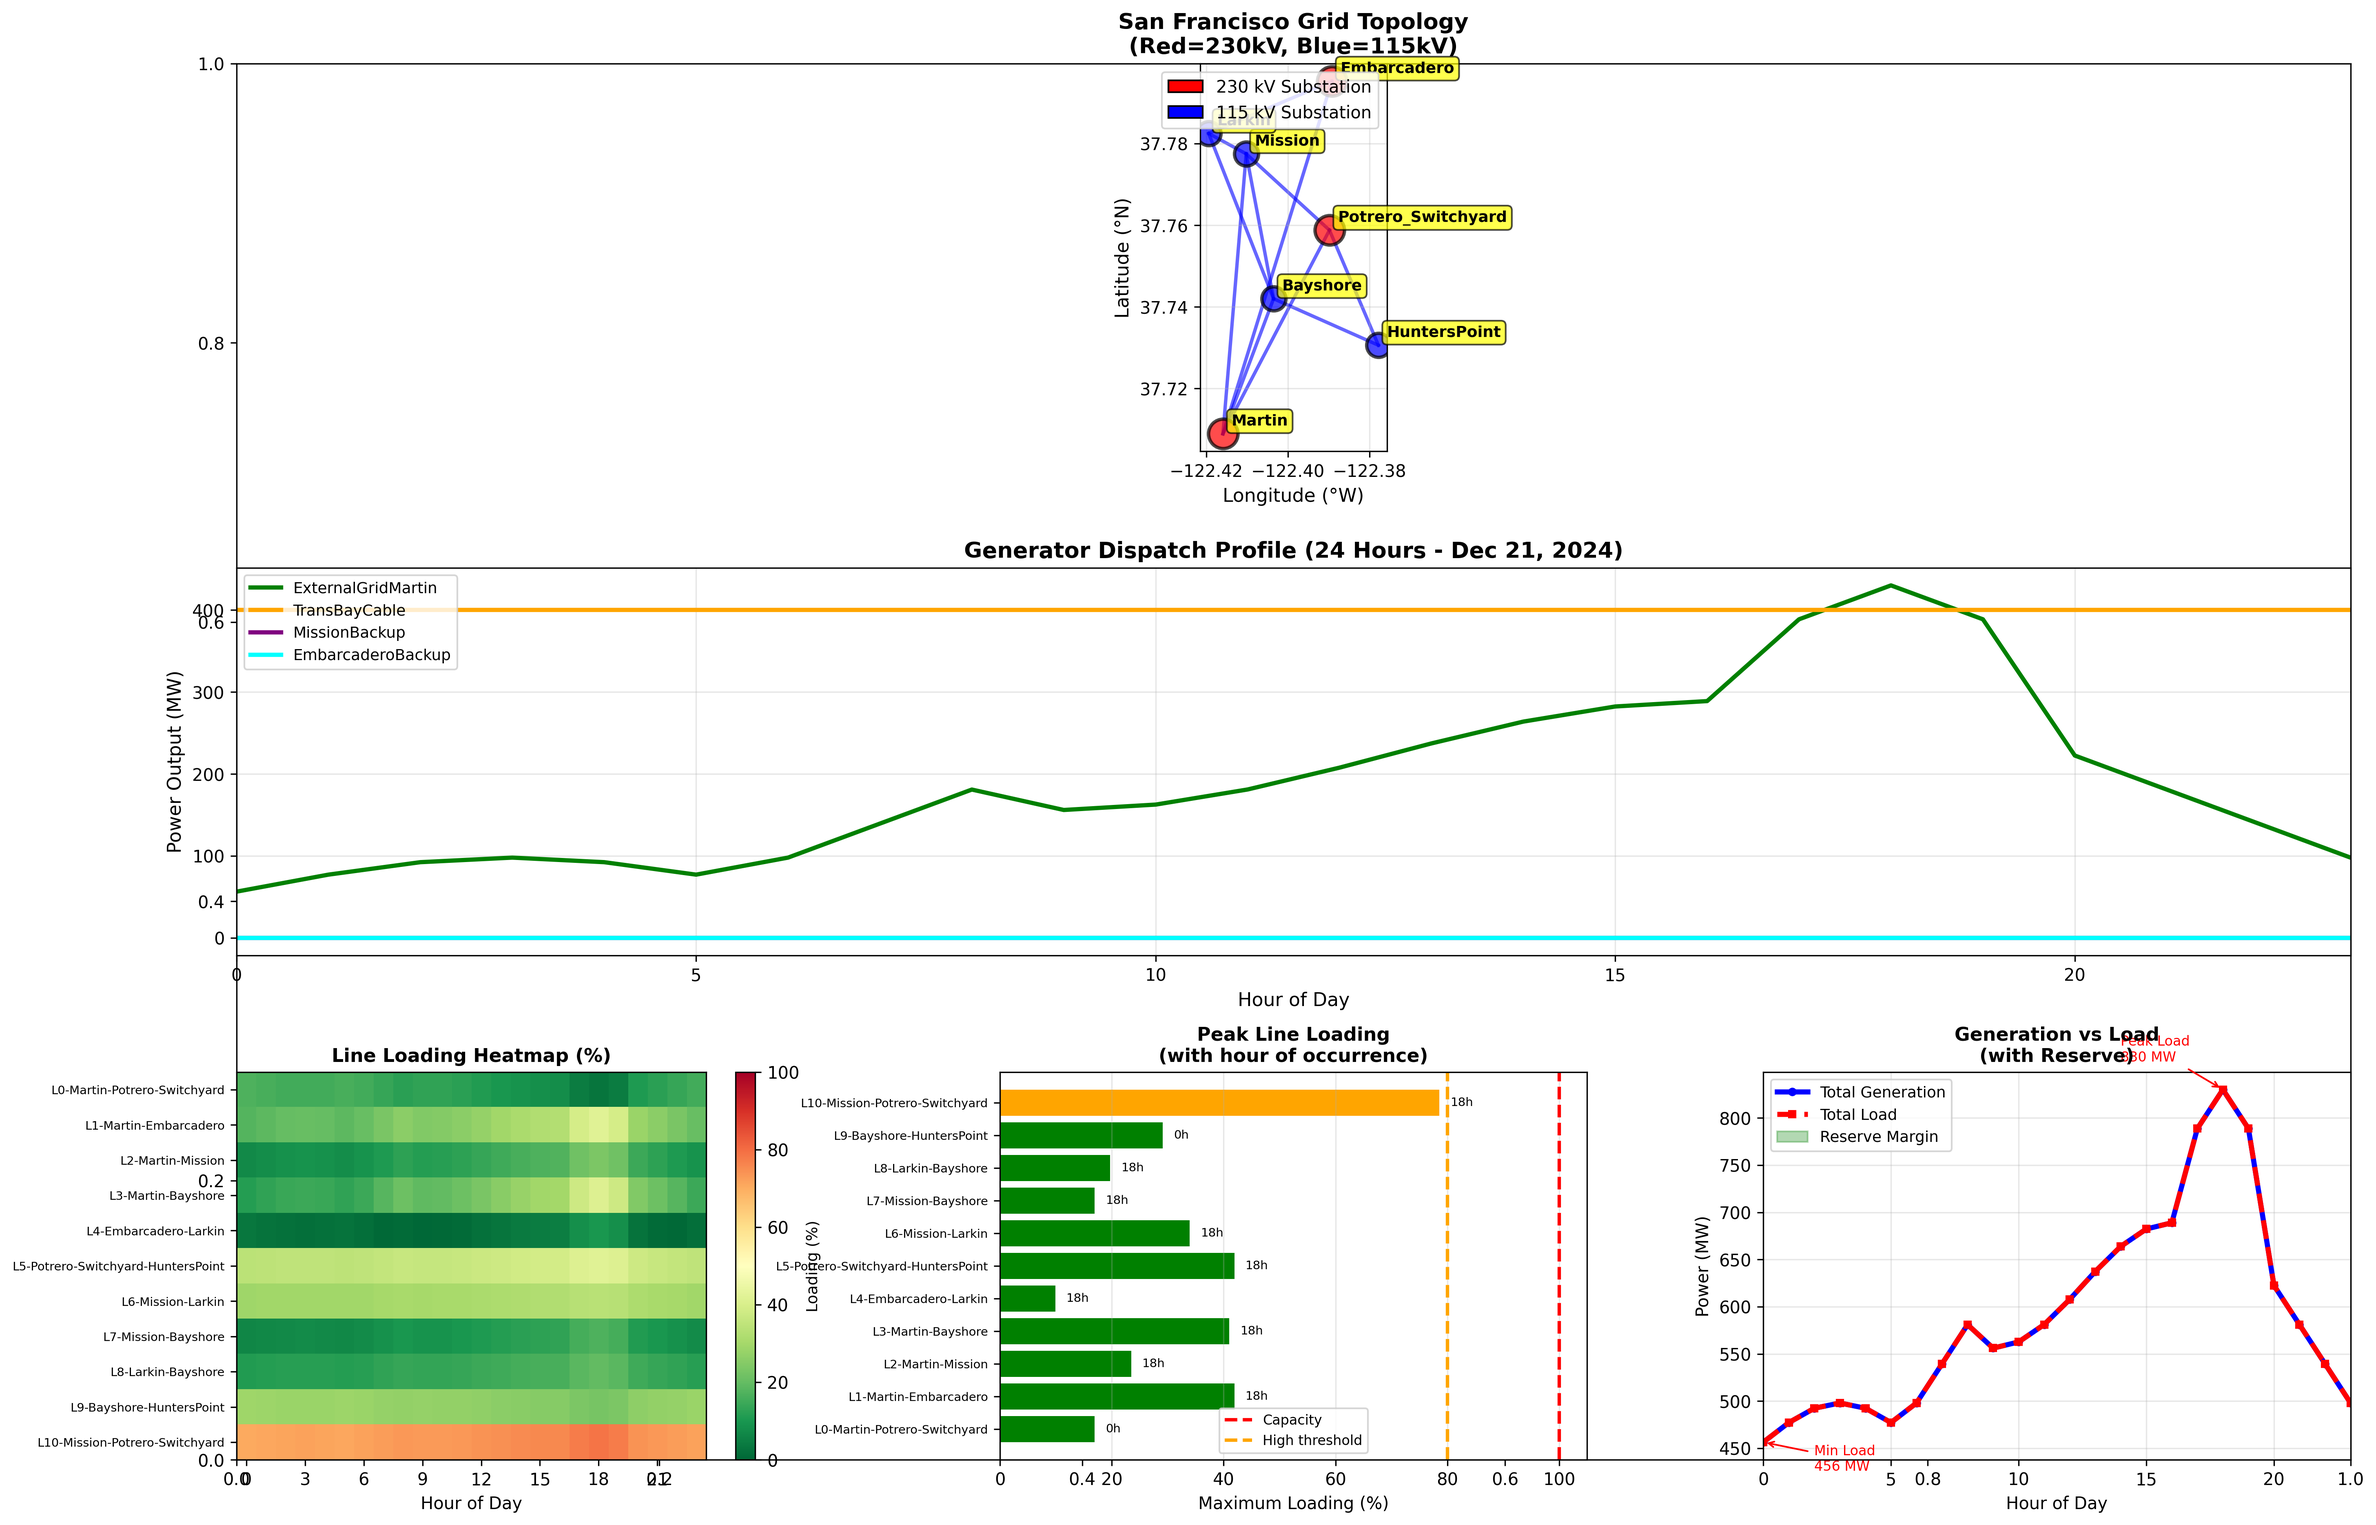
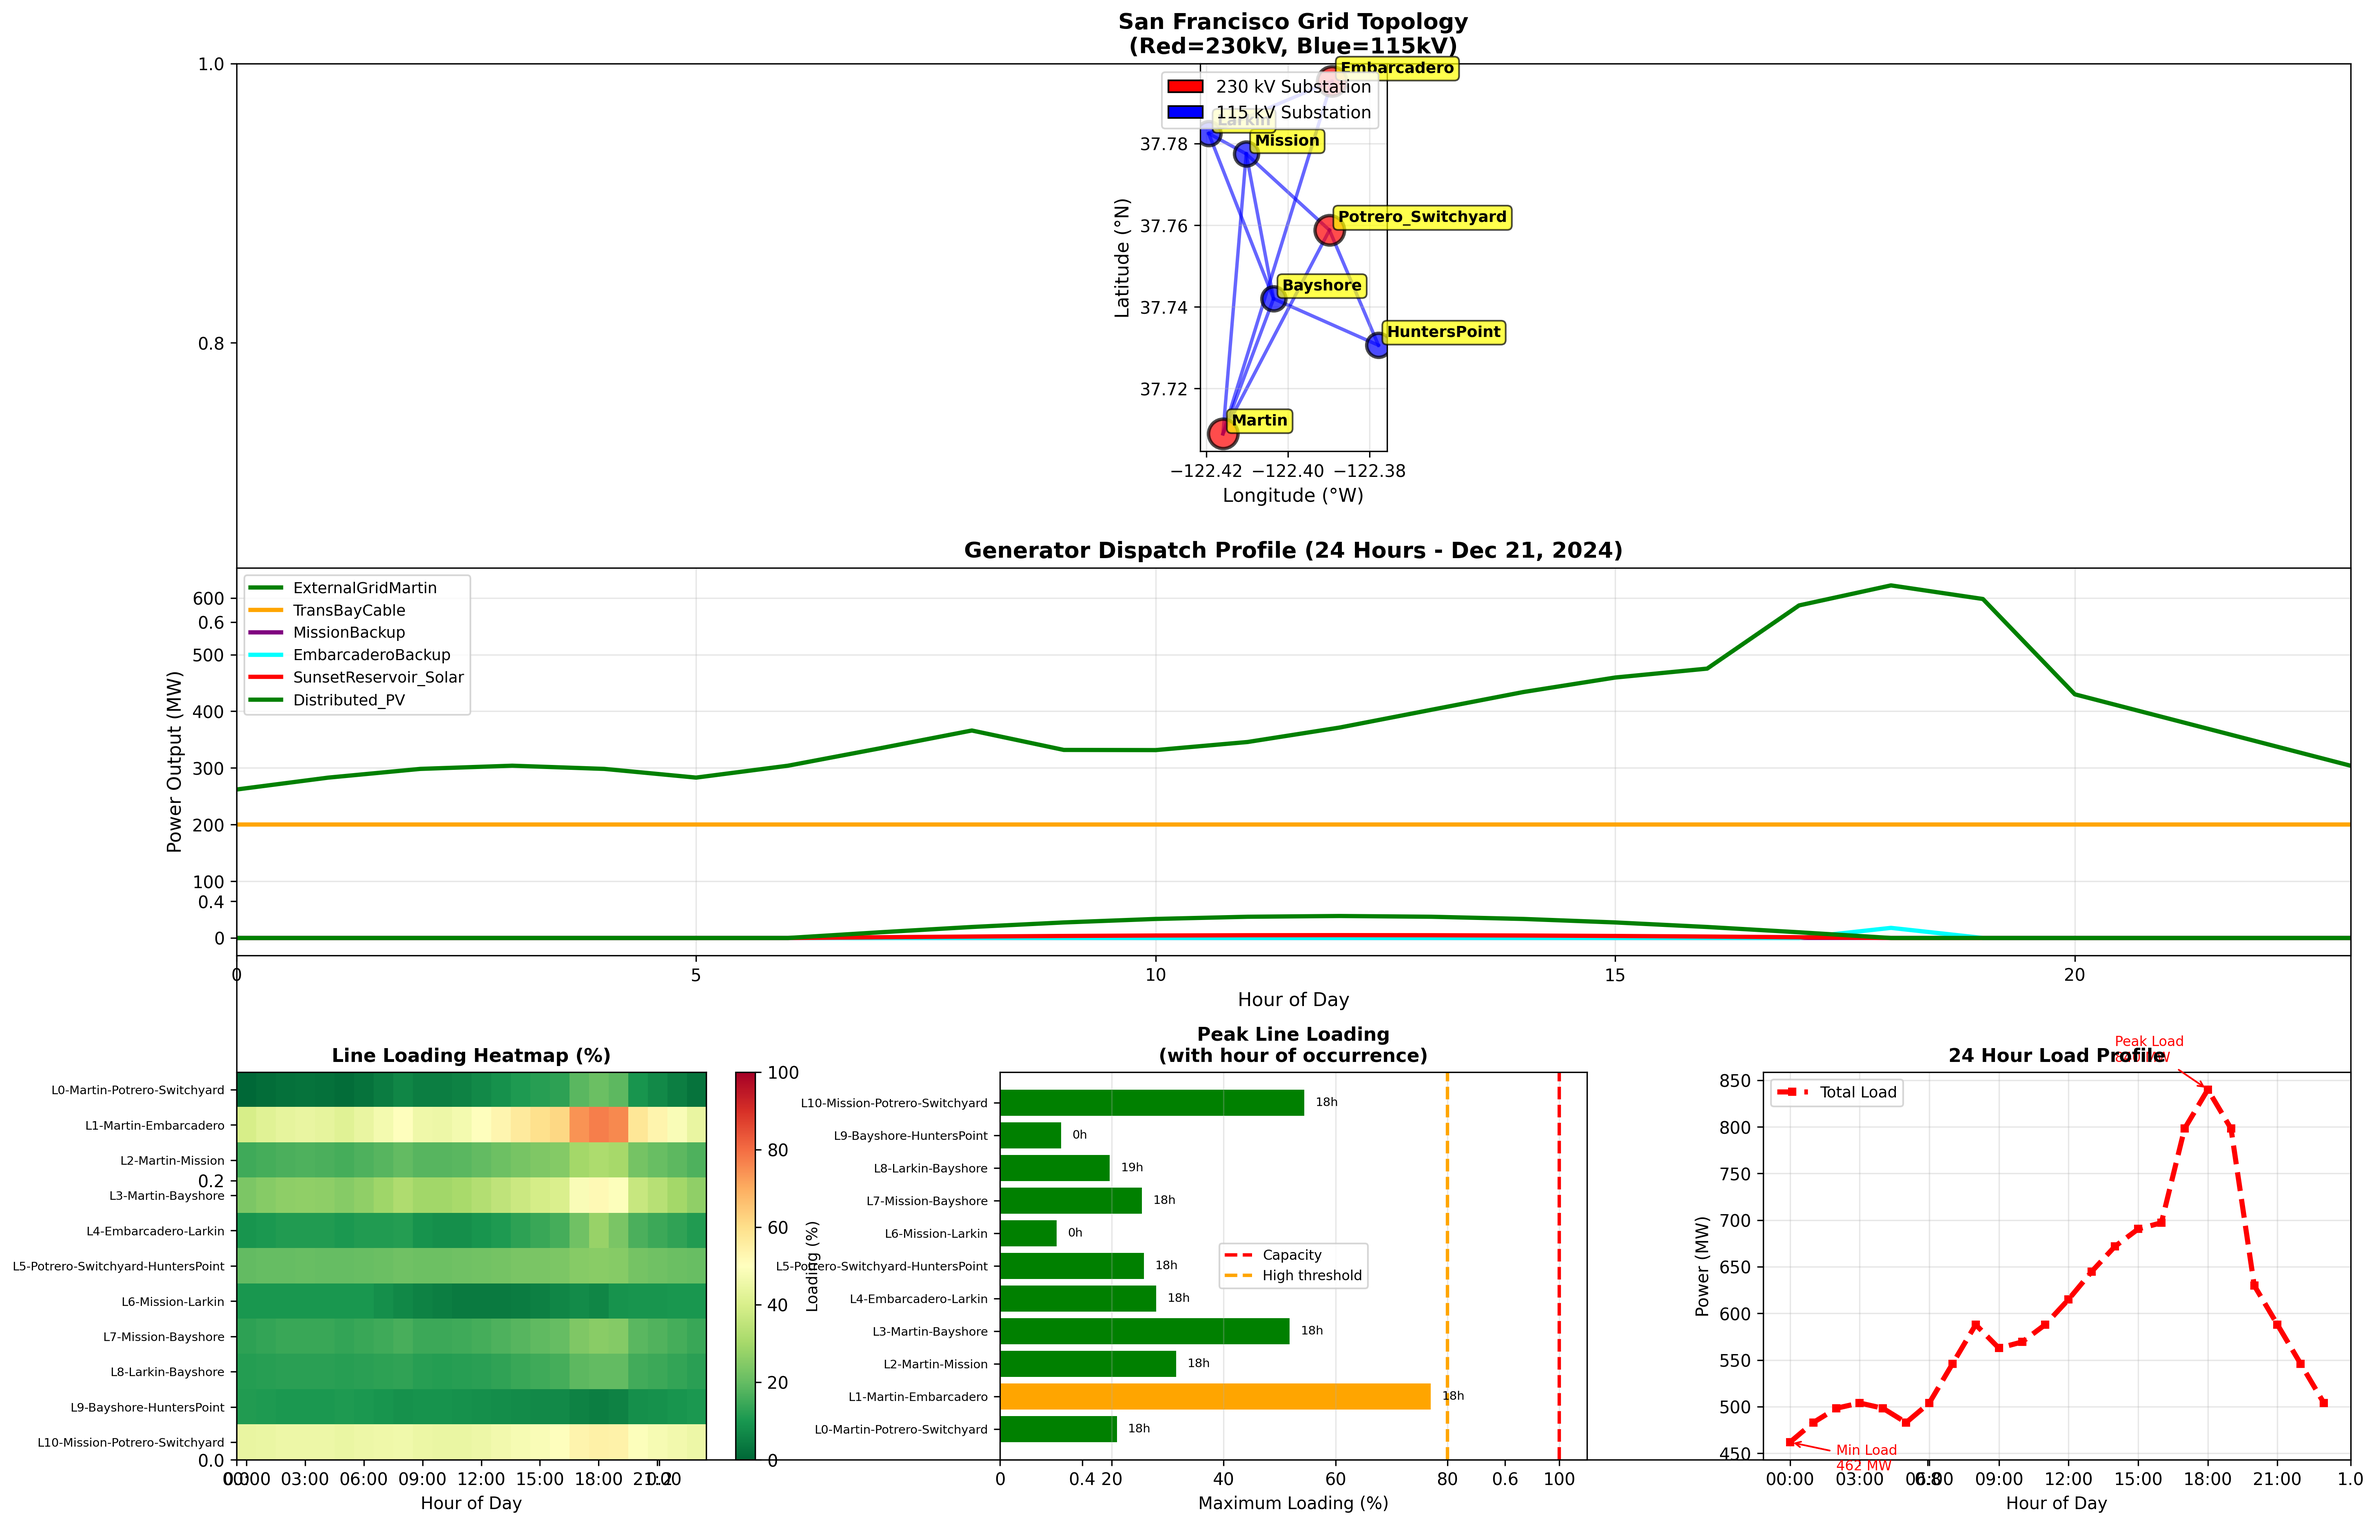
add a solar generator, increase constraints

diff --git a/sf_grid_model.py b/sf_grid_model.py
@@ -91,16 +91,14 @@ network.add("Generator", "ExternalGridMartin",
             p_nom=1500,
             marginal_cost=50,
             carrier="external")
-print("  • External Grid @ Martin: 1,500 MW (230kV entry point)")
 
 # Trans Bay Cable at Potrero Converter
 # Note: The 200kV DC converter connects to 230kV AC switchyard
 network.add("Generator", "TransBayCable",
             bus="Potrero_Switchyard",
-            p_nom=400,  # 400 MW underwater cable from Pittsburg
+            p_nom=200,  # 400 MW underwater cable from Pittsburg
             marginal_cost=40,
             carrier="cable")
-print("  • Trans Bay Cable @ Potrero: 400 MW (via DC converter)")
 
 # Backup generation at critical substations
 network.add("Generator", "MissionBackup",
@@ -108,15 +106,36 @@ network.add("Generator", "MissionBackup",
             p_nom=50,
             marginal_cost=200,
             carrier="diesel")
-print("  • Emergency Backup @ Mission: 50 MW (diesel)")
 
 network.add("Generator", "EmbarcaderoBackup",
             bus="Embarcadero",
             p_nom=30,
             marginal_cost=200,
             carrier="diesel")
-print("  • Emergency Backup @ Embarcadero: 30 MW (diesel)")
 
+# Create solar generation profile (only generates during daylight)
+solar_profile = np.zeros(24)
+for hour in range(24):
+    if 6 <= hour <= 18:  # Sunrise ~6 AM, Sunset ~6 PM (December)
+        # Peak at solar noon (12 PM)
+        solar_profile[hour] = np.sin((hour - 6) * np.pi / 12)
+    else:
+        solar_profile[hour] = 0
+
+network.add("Generator", "SunsetReservoir_Solar",
+            bus="Mission",  # Western SF, assign to Mission area
+            p_nom=5,
+            p_max_pu=solar_profile,  # Time-varying availability
+            marginal_cost=0,  # Solar has zero fuel cost
+            carrier="solar")
+print("  • Sunset Reservoir Solar: 5 MW (peak)")
+# Distributed PV generation across SF
+network.add("Generator", "Distributed_PV",
+            bus="Larkin",  # Central SF location
+            p_nom=38.77,  # 8,710 private sites
+            p_max_pu=solar_profile,  # Same solar profile
+            marginal_cost=0,
+            carrier="solar")
 # =====================================================================
 # LOADS - Electricity demand. Based on known service areas
 # =====================================================================
@@ -130,7 +149,7 @@ hours = network.snapshots
 # load_profile = .6 + 0.4 * np.sin((hours.hour - 6) * np.pi / 12)
 # Range: 50% to 100% of base load: Typical daily variation for urban areas
 # load_profile = np.maximum(load_profile, 0.5)
-def realistic_load_profile(hours):
+def sf_load_profile(hours):
     """Create realistic daily load profile"""
     profile = np.zeros(len(hours))
     
@@ -148,18 +167,19 @@ def realistic_load_profile(hours):
     
     return profile
 
-load_profile = realistic_load_profile(hours)
-
-loads = {
-    'Mission': 200,        # SoMa/Mission -
-    'Larkin': 150,        # DOwntown/ Civic center
-    'Embarcadero': 180,    # Financial District - 24K residential, 3K business
-    'Potrero_Switchyard': 100,  # Potrero/Dogpatch
-    'Bayshore': 120,      # Southern neighborhoods
-    'HuntersPoint': 80,   # Southeast SF
+load_profile = sf_load_profile(hours)
+average_load_mw = 750  # 18,000 MWh / 24 hours
+load_distribution = {
+    'Mission': 0.24 * 1.5,        # SoMa/Mission district (large, dense, commercial)
+    'Larkin': 0.18,         # Downtown/Civic Center
+    'Embarcadero': 0.22,    # Financial District (major commercial)
+    'Potrero_Switchyard': 0.13,  # Potrero/Dogpatch
+    'Bayshore': 0.14,       # Southern neighborhoods
+    'HuntersPoint': 0.09,   # Southeast SF
 }
 
-for name, base_load in loads.items():
+for name, fraction in load_distribution.items():
+    base_load = average_load_mw * fraction
     p_set = base_load * load_profile
     network.add("Load", f"Load_{name}",
                 bus=name,
@@ -172,8 +192,8 @@ for name, base_load in loads.items():
 
 lines = [
      # 230kV 
-    ('Martin', 'Potrero_Switchyard', 12, 600, 0.008, 0.08, '230kV-UG'),  # Underground
-    ('Martin', 'Embarcadero', 10, 500, 0.008, 0.08, '230kV-UG'),         # Underground
+    ('Martin', 'Potrero_Switchyard', 12, 400, 0.008, 0.08, '230kV-UG'),  # Underground
+    ('Martin', 'Embarcadero', 10, 300, 0.008, 0.08, '230kV-UG'),         # Underground
     
     # 230kV to 115kV connections (transformers modeled as lines)
     ('Martin', 'Mission', 15, 400, 0.01, 0.10, '230/115kV'),  # Step-down
@@ -210,7 +230,7 @@ print("SAN FRANCISCO GRID SECURITY-CONSTRAINED OPTIMAL POWER FLOW")
 print("=" * 70)
 print(f"\nNetwork: {len(network.buses)} buses, {len(network.lines)} lines")
 print(f"Generators: {len(network.generators)}")
-print(f"Total load: {sum(loads.values()):.0f} MW (base)")
+print(f"Total load: {sum(load_distribution.values()):.0f} MW (base)")
 print("\n" + "=" * 70)
 
 # First, run standard LOPF to establish baseline
@@ -233,13 +253,6 @@ for gen in network.generators.index:
 # Line loadings
 print(f"\n   Critical line loadings:")
 line_loading = network.lines_t.p0.abs() / network.lines.s_nom * 100
-
-# Focus on Martin lines (critical)
-martin_lines = [line for line in network.lines.index if 'Martin' in line]
-for line in martin_lines:
-    max_load = line_loading[line].max()
-    status = " HIGH" if max_load > 80 else " OK"
-    print(f"     {line}: {max_load:.1f}% {status}")
 
 # =====================================================================
 # SECURITY-CONSTRAINED LOPF (SCLOPF)
@@ -358,8 +371,11 @@ ax3.set_yticks(range(len(network.lines)))
 ax3.set_yticklabels(line_names_short, fontsize=7)
 ax3.set_xlabel("Hour of Day", fontsize=10)
 ax3.set_title("Line Loading Heatmap (%)", fontsize=11, fontweight='bold')
-ax3.set_xticks(range(0, 24, 3))
-ax3.set_xticklabels(range(0, 24, 3))
+hour_ticks = range(0, 24, 3)  # 0, 3, 6, 9, 12, 15, 18, 21
+hour_labels = [f'{h:02d}:00' for h in hour_ticks]  # '00:00', '03:00', '06:00', etc.
+
+ax3.set_xticks(hour_ticks)
+ax3.set_xticklabels(hour_labels)
 # Add colorbar
 cbar = plt.colorbar(im, ax=ax3)
 cbar.set_label('Loading (%)', fontsize=9)
@@ -404,23 +420,19 @@ total_load = network.loads_t.p.sum(axis=1)
 
 # Plot
 hours_array = network.snapshots.hour
-ax5.plot(hours_array, total_gen, linewidth=3, label='Total Generation', 
-         color='blue', marker='o', markersize=4)
+# ax5.plot(hours_array, total_gen, linewidth=3, label='Total Generation', 
+#          color='blue', marker='o', markersize=4)
 ax5.plot(hours_array, total_load, linewidth=3, label='Total Load', 
          color='red', linestyle='--', marker='s', markersize=4)
 
-# Fill reserve area
-ax5.fill_between(hours_array, total_load, total_gen, 
-                 where=(total_gen >= total_load),
-                 alpha=0.3, color='green', label='Reserve Margin')
 
-ax5.set_title("Generation vs Load\n(with Reserve)", fontsize=11, fontweight='bold')
+ax5.set_title( "24 Hour Load Profile", fontsize=11, fontweight='bold')
 ax5.set_xlabel("Hour of Day", fontsize=10)
 ax5.set_ylabel("Power (MW)", fontsize=10)
 ax5.legend(fontsize=9)
 ax5.grid(True, alpha=0.3)
-ax5.set_xlim(0, 23)
-
+ax5.set_xticks(hour_ticks)
+ax5.set_xticklabels(hour_labels)
 # Add annotations for min and max
 min_load_idx = total_load.idxmin()
 max_load_idx = total_load.idxmax()
